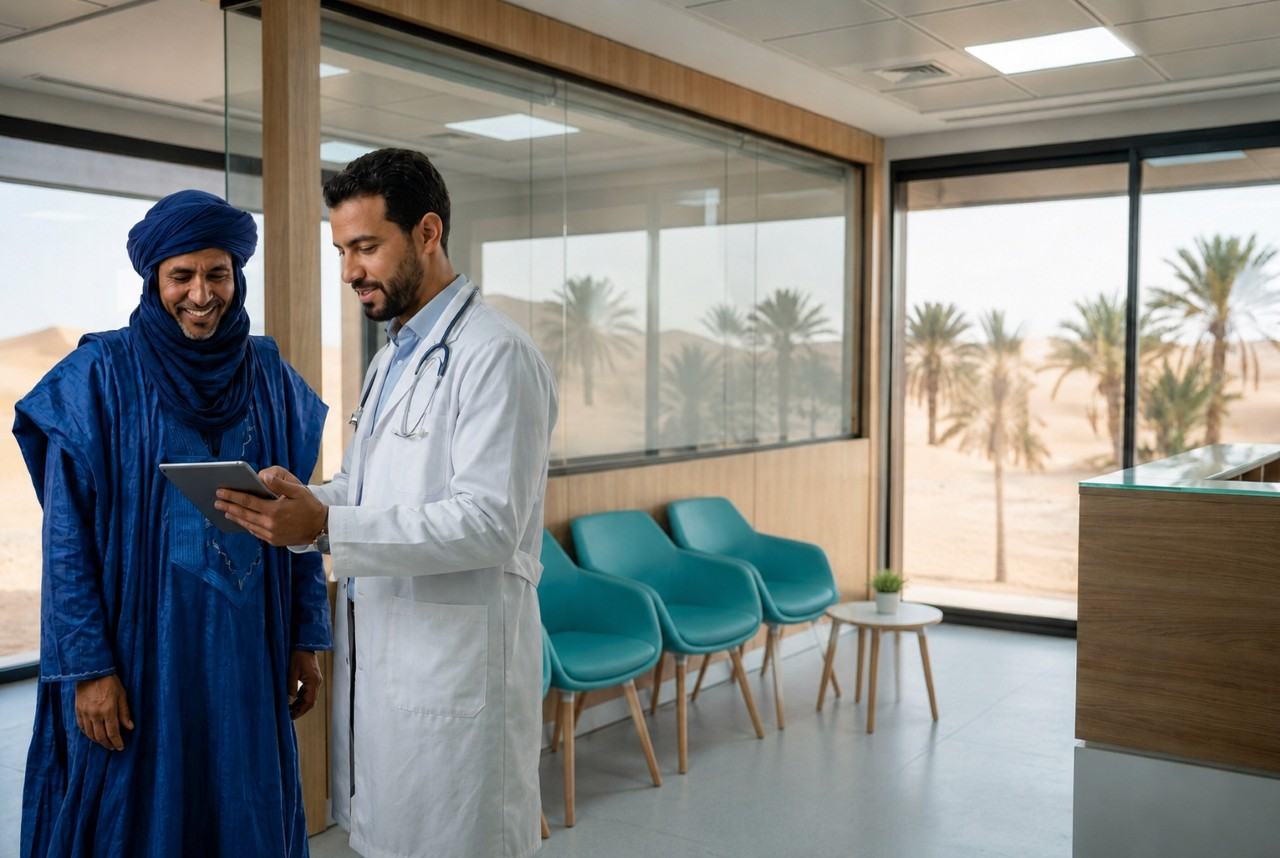
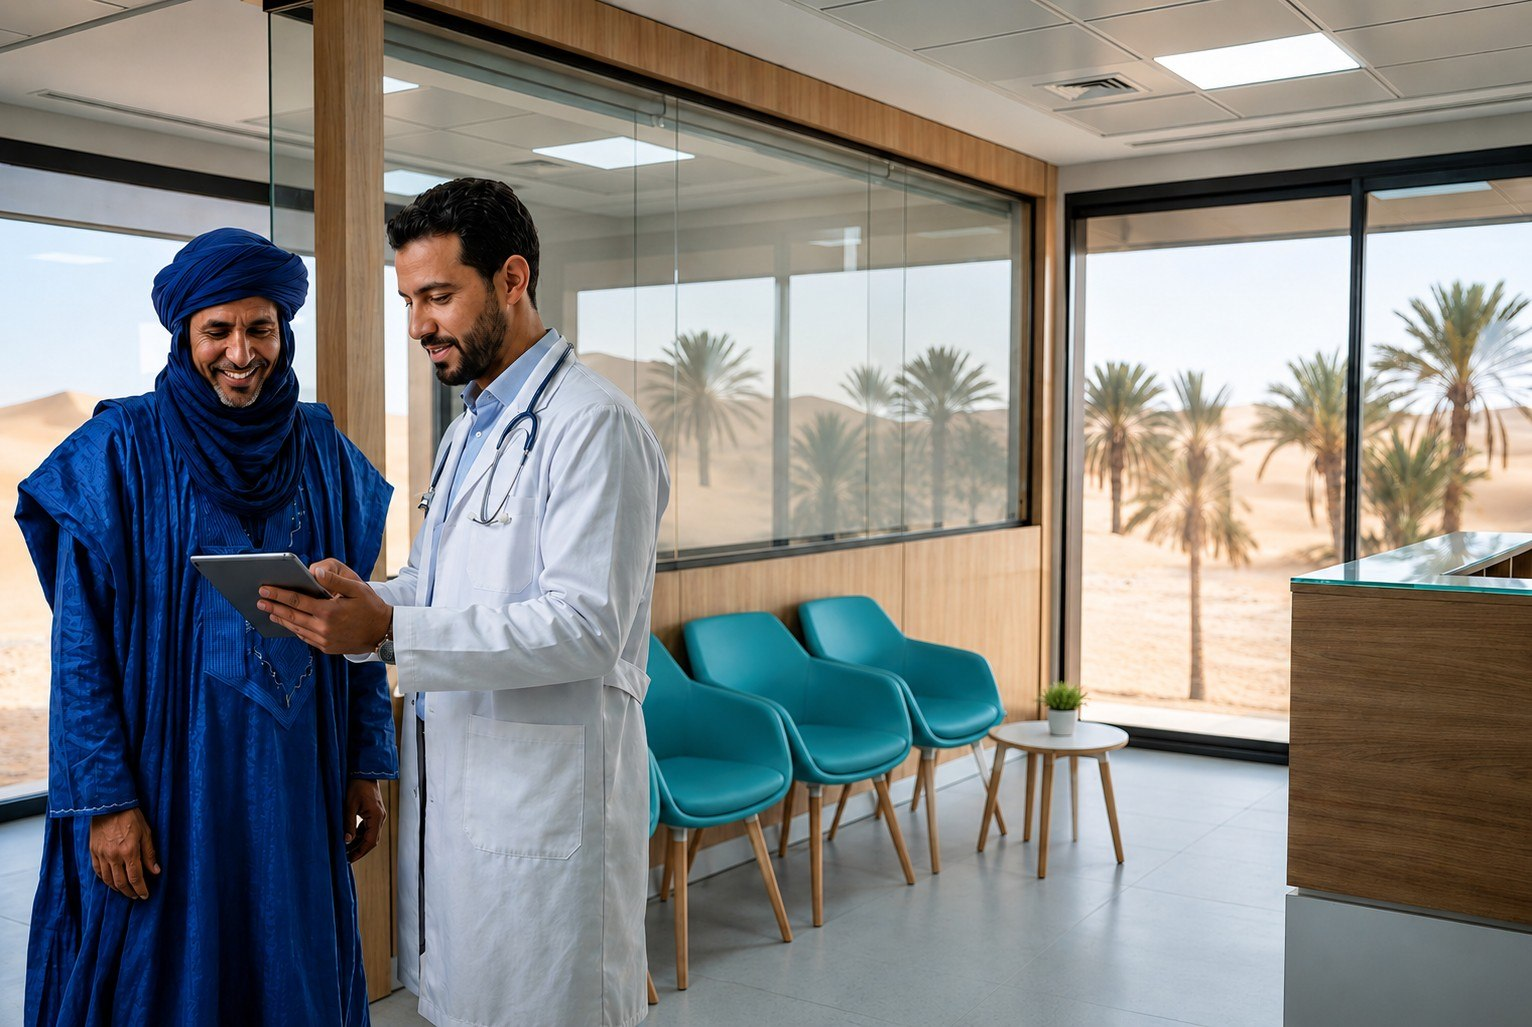
general improvements

diff --git a/app/page.jsx b/app/page.jsx
@@ -8,6 +8,7 @@ import { useUser } from "@clerk/nextjs";
 import { Button } from "@/components/ui/button";
 import { Card, CardContent } from "@/components/ui/card";
 import HeroSection from "@/components/HeroSection";
+import EmergencyButton from "@/components/ui/emergency-button";
 import {
   Stethoscope, Baby, Brain, FlaskConical,
   ArrowLeft, Star, HeartPulse, ClipboardList,
@@ -99,17 +100,22 @@ export default function Home() {
         <ScrollToTopButton />
 
         {/* ══════════════════════════════════
+            زر طوارئ عائم للموبايل فقط
+        ══════════════════════════════════ */}
+        <div className="fixed bottom-24 right-6 z-50 md:hidden">
+          <EmergencyButton />
+        </div>
+
+        {/* ══════════════════════════════════
             1. HERO — full-width bg image
         ══════════════════════════════════ */}
         <HeroSection startHref={startHref} />
 
         {/* ══════════════════════════════════
             2. WHY SECTION — "لماذا تختار أديبيناك؟"
-            Layout: 2-col asymmetric bento grid
         ══════════════════════════════════ */}
         <section className="py-20" dir="rtl">
           <div className="container mx-auto px-4 md:px-10">
-            {/* Header */}
             <div className="mb-10 text-center">
               <h2 className="mb-2 text-2xl font-black text-[#062220] dark:text-white md:text-3xl">
                 لماذا تختار أديبيناك؟
@@ -119,12 +125,8 @@ export default function Home() {
               </p>
             </div>
 
-            {/* Bento Grid — matches screenshot exactly */}
             <div className="grid grid-cols-1 gap-5 md:grid-cols-2">
-
-              {/* Row 1: big teal card (right) + small card (left) */}
               <div className="flex flex-col gap-5">
-                {/* Teal featured card */}
                 <div className="relative overflow-hidden rounded-3xl bg-[#0f766e] p-7 text-white shadow-xl">
                   <div className="pointer-events-none absolute -right-10 -top-10 h-36 w-36 rounded-full bg-white/10" />
                   <div className="pointer-events-none absolute -bottom-8 -left-8 h-28 w-28 rounded-full bg-white/5" />
@@ -143,7 +145,6 @@ export default function Home() {
                   </div>
                 </div>
 
-                {/* Small card: تحليلات ذكية */}
                 <TiltCard className="rounded-2xl border border-[#2DBFB8]/20 bg-white p-6 shadow-sm dark:border-[#2DBFB8]/15 dark:bg-[#0a1e1d]">
                   <div className="mb-3 flex h-11 w-11 items-center justify-center rounded-xl bg-[#2DBFB8]/15">
                     <HeartPulse className="h-5 w-5 text-[#2DBFB8]" />
@@ -155,9 +156,7 @@ export default function Home() {
                 </TiltCard>
               </div>
 
-              {/* Row 1 col 2: small card (top) + big card (bottom) */}
               <div className="flex flex-col gap-5">
-                {/* Small: تغطية صحراوية */}
                 <TiltCard className="rounded-2xl border border-[#2DBFB8]/20 bg-white p-6 shadow-sm dark:border-[#2DBFB8]/15 dark:bg-[#0a1e1d]">
                   <div className="mb-3 flex h-11 w-11 items-center justify-center rounded-xl bg-[#2DBFB8]/15">
                     <Brain className="h-5 w-5 text-[#2DBFB8]" />
@@ -172,7 +171,6 @@ export default function Home() {
                   </button>
                 </TiltCard>
 
-                {/* Big: نخبة الأطباء */}
                 <TiltCard className="rounded-2xl border border-[#2DBFB8]/20 bg-white p-6 shadow-sm dark:border-[#2DBFB8]/15 dark:bg-[#0a1e1d]">
                   <div className="mb-3 flex h-11 w-11 items-center justify-center rounded-xl bg-[#2DBFB8]/15">
                     <ClipboardList className="h-5 w-5 text-[#2DBFB8]" />
@@ -188,7 +186,7 @@ export default function Home() {
         </section>
 
         {/* ══════════════════════════════════
-            3. SERVICES GRID — "خدمات طبية شاملة"
+            3. SERVICES GRID
         ══════════════════════════════════ */}
         <section className="bg-[#f0f2f5] py-20 dark:bg-[#071312]" dir="rtl">
           <div className="container mx-auto px-4 md:px-10">
@@ -230,18 +228,15 @@ export default function Home() {
         </section>
 
         {/* ══════════════════════════════════
-            4. CTA DARK CARD — "جاهز لرحلة صحية أكثر ذكاءً؟"
-            Dark teal card with circular doctor image
+            4. CTA DARK CARD
         ══════════════════════════════════ */}
         <section className="py-20" dir="rtl">
           <div className="container mx-auto px-4 md:px-10">
             <div className="relative overflow-hidden rounded-3xl bg-[#062220] shadow-2xl dark:bg-[#031410]">
-              {/* Background glow */}
               <div className="pointer-events-none absolute -left-24 -top-24 h-64 w-64 rounded-full bg-[#2DBFB8]/15 blur-[80px]" />
               <div className="pointer-events-none absolute -bottom-16 right-32 h-48 w-48 rounded-full bg-[#2DBFB8]/10 blur-[60px]" />
 
               <div className="relative z-10 flex flex-col items-center gap-8 p-10 md:flex-row md:items-center md:justify-between md:p-14">
-                {/* Text */}
                 <div className="max-w-lg text-right">
                   <h2 className="mb-4 text-2xl font-black leading-snug text-white md:text-3xl lg:text-4xl">
                     جاهز لرحلة صحية أكثر ذكاءً؟
@@ -263,12 +258,10 @@ export default function Home() {
                   </div>
                 </div>
 
-                {/* Doctor circular image */}
                 <div className="relative shrink-0">
                   <div className="relative h-52 w-52 overflow-hidden rounded-full border-4 border-[#2DBFB8]/40 shadow-[0_0_50px_rgba(45,191,184,0.3)] md:h-64 md:w-64">
                     <Image src="/home.png" alt="doctor" fill className="object-cover object-[2%_center]" />
                   </div>
-                  {/* Glow ring */}
                   <div className="absolute inset-0 rounded-full border-2 border-[#2DBFB8]/20 scale-110" />
                 </div>
               </div>
@@ -277,7 +270,7 @@ export default function Home() {
         </section>
 
         {/* ══════════════════════════════════
-            5. TESTIMONIALS — "ماذا يقول عملاؤنا؟"
+            5. TESTIMONIALS
         ══════════════════════════════════ */}
         <section className="bg-[#f0f2f5] py-20 dark:bg-[#071312]" dir="rtl">
           <div className="container mx-auto px-4 md:px-10">

diff --git a/components/ui/emergency-button.jsx b/components/ui/emergency-button.jsx
@@ -1,0 +1,116 @@
+'use client'
+
+import React, { useState } from "react";
+import { Phone, Copy, AlertTriangle, X } from "lucide-react";
+import { Button } from "@/components/ui/button";
+import {
+  Dialog,
+  DialogContent,
+  DialogHeader,
+  DialogTitle,
+  DialogTrigger,
+} from "@/components/ui/dialog";
+
+const SECRETARY_PHONE = "+213-696465311"; // ← عدّل هذا برقم السكرتيرة الحقيقي
+
+export default function EmergencyButton() {
+  const [copied, setCopied] = useState(false);
+  const [open, setOpen] = useState(false);
+
+  const handleCopy = async () => {
+    const cleanNumber = SECRETARY_PHONE.replace(/-/g, "");
+    try {
+      await navigator.clipboard.writeText(cleanNumber);
+      setCopied(true);
+      setTimeout(() => setCopied(false), 2000);
+    } catch {
+      const textArea = document.createElement("textarea");
+      textArea.value = cleanNumber;
+      document.body.appendChild(textArea);
+      textArea.select();
+      document.execCommand("copy");
+      document.body.removeChild(textArea);
+      setCopied(true);
+      setTimeout(() => setCopied(false), 2000);
+    }
+  };
+
+  const handleCall = () => {
+    window.location.href = `tel:${SECRETARY_PHONE.replace(/-/g, "")}`;
+  };
+
+  return (
+    <Dialog open={open} onOpenChange={setOpen}>
+      <DialogTrigger asChild>
+        <Button
+          variant="destructive"
+          size="lg"
+          className="gap-2 animate-pulse hover:animate-none shadow-lg shadow-red-500/30 hover:shadow-red-500/50 transition-all duration-300 font-bold text-base px-6 py-5 rounded-full border-2 border-red-400 hover:border-red-300 bg-red-600 hover:bg-red-700"
+        >
+          <AlertTriangle className="h-5 w-5" />
+          حالة طوارئ
+        </Button>
+      </DialogTrigger>
+
+      <DialogContent className="sm:max-w-md border-red-200 dark:border-red-800 bg-white dark:bg-[#0a1e1d]" dir="rtl">
+        <DialogHeader className="text-center">
+          <div className="mx-auto w-16 h-16 bg-red-100 dark:bg-red-900/30 rounded-full flex items-center justify-center mb-4">
+            <AlertTriangle className="h-8 w-8 text-red-600 dark:text-red-400" />
+          </div>
+          <DialogTitle className="text-2xl font-bold text-red-600 dark:text-red-400">
+            حالة طوارئ
+          </DialogTitle>
+        </DialogHeader>
+
+        <div className="space-y-6 py-4">
+          <p className="text-center text-[#6b7a7a] dark:text-slate-400 leading-relaxed text-sm">
+            في الحالات المستعجلة أو عند صعوبة الحجز عبر الإنترنت، يرجى التواصل مباشرة مع السكرتيرة.
+          </p>
+
+          <div className="rounded-2xl border border-red-200 dark:border-red-800 bg-red-50/50 dark:bg-red-950/20 p-6 text-center space-y-3">
+            <p className="text-sm font-medium text-[#6b7a7a] dark:text-slate-400">
+              رقم السكرتيرة
+            </p>
+            <p className="text-2xl font-bold text-red-600 dark:text-red-400 font-mono tracking-wider">
+              {SECRETARY_PHONE}
+            </p>
+          </div>
+
+          <div className="flex flex-col sm:flex-row gap-3">
+            <Button
+              onClick={handleCall}
+              className="flex-1 gap-2 bg-red-600 hover:bg-red-700 text-white h-12 text-base font-semibold rounded-full"
+              size="lg"
+            >
+              <Phone className="h-5 w-5" />
+              اتصل الآن
+            </Button>
+
+            <Button
+              onClick={handleCopy}
+              variant="outline"
+              className={`flex-1 gap-2 h-12 text-base font-semibold rounded-full border-red-200 dark:border-red-800 hover:bg-red-50 dark:hover:bg-red-950/30 ${
+                copied ? "bg-green-50 border-green-300 text-green-700 dark:bg-green-950/30 dark:border-green-700 dark:text-green-400" : "text-[#062220] dark:text-white"
+              }`}
+              size="lg"
+            >
+              {copied ? (
+                <>
+                  <svg className="h-5 w-5" fill="none" viewBox="0 0 24 24" stroke="currentColor">
+                    <path strokeLinecap="round" strokeLinejoin="round" strokeWidth={2} d="M5 13l4 4L19 7" />
+                  </svg>
+                  تم النسخ!
+                </>
+              ) : (
+                <>
+                  <Copy className="h-5 w-5" />
+                  نسخ الرقم
+                </>
+              )}
+            </Button>
+          </div>
+        </div>
+      </DialogContent>
+    </Dialog>
+  );
+}

diff --git a/components/HeroSection.tsx b/components/HeroSection.tsx
@@ -3,6 +3,7 @@
 import React, { useEffect, useState } from "react";
 import Link from "next/link";
 import { Calendar, Video } from "lucide-react";
+import EmergencyButton from "@/components/ui/emergency-button";
 
 export default function HeroSection({ startHref = "/onboarding" }: { startHref?: string }) {
   const [mounted, setMounted] = useState(false);
@@ -70,7 +71,7 @@ export default function HeroSection({ startHref = "/onboarding" }: { startHref?:
           </p>
 
           {/* الأزرار */}
-          <div className="flex flex-wrap gap-3">
+          <div className="flex flex-wrap gap-3 items-center">
             <Link href={startHref}>
               <button className="flex items-center gap-2 rounded-full bg-[#2DBFB8] px-7 py-3.5 text-sm font-bold text-white shadow-[0_8px_25px_rgba(45,191,184,0.5)] transition-all hover:-translate-y-0.5 hover:bg-teal-500">
                 <Calendar className="h-4 w-4" />
@@ -83,6 +84,8 @@ export default function HeroSection({ startHref = "/onboarding" }: { startHref?:
                 استشارة فورية
               </button>
             </Link>
+            {/* ── زر الطوارئ ── */}
+            <EmergencyButton />
           </div>
         </div>
       </div>
